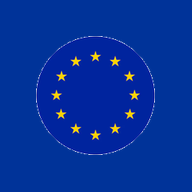
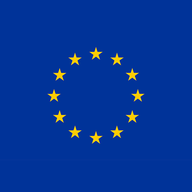
Fix service worker dead-end on flaky mobile networks (#20)
* Fix service worker turning a single flaky request into a dead page

On fetch failure with no cached response available, the worker
returned Response.error(), which Chrome renders as its native "This
page couldn't load" dead end — no automatic recovery, only a manual
pull-to-refresh gets you back. Common on the flaky mobile data this
app's users are on.

Now it retries the request once before giving up, falls back to the
cached homepage for failed navigations, and as a last resort returns
a plain-text response instead of a hard network error.

* Replace app icon with the official EU flag artwork

The old icon was a circular badge on a plain white square, which is
what caused the white-box splash artifact. Swapped in the full EU
flag (uniform blue background matching the app's brand colour, no
white edges), padded to a square canvas with the same blue so there's
no visible seam. Used for both the "any" and "maskable" manifest
purposes — the star ring already sits well inside the maskable safe
zone with no extra scaling needed.

---------

diff --git a/public/sw.js b/public/sw.js
@@ -1,4 +1,4 @@
-const CACHE_NAME = 'sonhoeuropa-v2'
+const CACHE_NAME = 'sonhoeuropa-v3'
 const STATIC_ASSETS = ['/', '/login', '/register', '/manifest.json']
 
 self.addEventListener('install', (event) => {
@@ -30,7 +30,25 @@ self.addEventListener('fetch', (event) => {
         }
         return response
       })
-      .catch(() => caches.match(event.request).then((cached) => cached || Response.error()))
+      .catch(async () => {
+        const cached = await caches.match(event.request)
+        if (cached) return cached
+
+        // Uma falha de rede isolada (comum em dados móveis) não deve deixar
+        // a página presa. Tenta mais uma vez antes de desistir.
+        try {
+          return await fetch(event.request)
+        } catch {
+          if (event.request.mode === 'navigate') {
+            const fallback = await caches.match('/')
+            if (fallback) return fallback
+          }
+          return new Response('Sem ligação à internet. Tenta novamente.', {
+            status: 503,
+            headers: { 'Content-Type': 'text/plain; charset=utf-8' },
+          })
+        }
+      })
   )
 })
 
